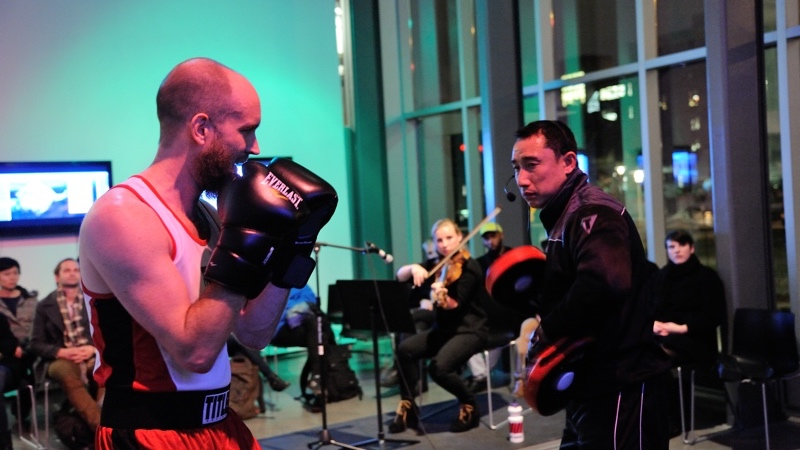
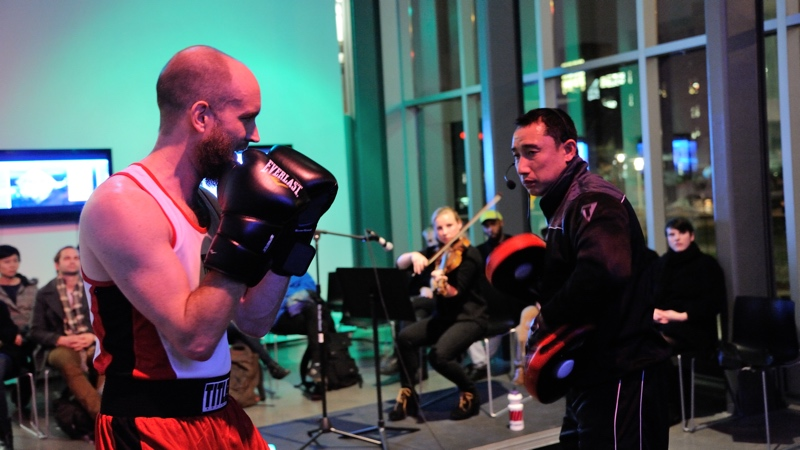
fight logic images

diff --git a/www/works/everything_that_happens_will_happen_today/index.html b/www/works/everything_that_happens_will_happen_today/index.html
@@ -7,7 +7,7 @@
     <meta name="viewport" content="width=device-width" />
     <meta name="author" content="Brian House" /> 
     <meta name="copyright" content="Brian House" /> 
-    <meta name="description" content="Over a period of one year, I continuously tracked the GPS location of ~1000 anonymous volunteers in NYC, at all times, via a custom app they installed on the..." />
+    <meta name="description" content="Over a period of one year, I tracked the GPS location of ~1000 anonymous volunteers in NYC, at all times, via a custom app they installed on their phones. I ..." />
     <meta property="og:title" content="Brian House | Everything That Happens Will Happen Today" />
     <meta property="og:type" content="website" />
     <meta property="og:image" content="https://brianhouse.net/works/everything_that_happens_will_happen_today/everything_that_happens_will_happen_today.jpg" />
@@ -15,7 +15,7 @@
     <meta name="twitter:site" content="@h0use" />
     <meta name="twitter:creator" content="@h0use" />
     <meta name="twitter:title" content="Brian House | Everything That Happens Will Happen Today" />
-    <meta name="twitter:description" content="Over a period of one year, I continuously tracked the GPS location of ~1000 anonymous volunteers in NYC, at all times, via a custom app they installed on the..." />
+    <meta name="twitter:description" content="Over a period of one year, I tracked the GPS location of ~1000 anonymous volunteers in NYC, at all times, via a custom app they installed on their phones. I ..." />
     <meta name="twitter:image" content="https://brianhouse.net/works/everything_that_happens_will_happen_today/everything_that_happens_will_happen_today.jpg" />    
     <link rel="icon" href="/favicon.png" /> 
     <link href="https://fonts.googleapis.com/css?family=Open+Sans:400,700%7CVollkorn:400,700" rel="stylesheet">
@@ -125,7 +125,7 @@ var num_media = 5;
 </div>
 
 <div id="text" class="text">
-    <p>Over a period of one year, I continuously tracked the GPS location of ~1000 anonymous volunteers in NYC, at all times, via a custom app they installed on their phones. I used these data to train an artificial intelligence algorithm similar to what is used for self-driving cars, realistic computer voices, predictive policing, and myriad other emerging applications (LSTM RNN). The algorithm was subsequently able to generate a new path around NYC that synthesized the daily behaviors of all of the volunteers. </p>
+    <p>Over a period of one year, I tracked the GPS location of ~1000 anonymous volunteers in NYC, at all times, via a custom app they installed on their phones. I used these data to train an artificial intelligence algorithm similar to what is used for self-driving cars, realistic computer voices, predictive policing, and myriad other emerging applications (LSTM RNN). The algorithm was subsequently able to generate a new path around NYC that synthesized the daily behaviors of all of the volunteers. </p>
 <p>In the spirit of Vito Acconci&rsquo;s <em>Following Piece</em> or Sophie Calle&rsquo;s <em>Suite V&eacute;nitienne</em>, I then followed the AI through the city for one week, using an app to see the path unfold in realtime on my phone. I took photographs (with my phone) of the daily life I encountered and wrote in a journal.</p>
 <p>The intelligence of AI is not spontaneous, but enculturated. It is uncanny not because it acts as if it were human, but because it is humans. They may be subsumed into the whole, but this whole is a trace of its parts. A dataset of movement around the city means that trace is literal. By following it, will I find them?</p>
 </div>

diff --git a/www/works/fight_logic/index.html b/www/works/fight_logic/index.html
@@ -8,7 +8,6 @@
     <meta name="author" content="Brian House" /> 
     <meta name="copyright" content="Brian House" /> 
     <meta name="description" content="I learn to box by attempting to execute punch combinations called out by a professional trainer. Simultaneously, a violinist listens to the same instructions..." />
-    <meta name="google-site-verification" content="A4sQWaqqAP0xPQeB5rwLlUoHnVxHP2EEOZgO_LofGm8" />  
     <meta property="og:title" content="Brian House | Fight Logic" />
     <meta property="og:type" content="website" />
     <meta property="og:image" content="https://brianhouse.net/works/fight_logic/fight_logic.jpg" />
@@ -57,11 +56,11 @@ var num_media = 6;
 
 
 <div id="header">
-    <div id="name"><a href="/">Brian House</a></div>
+    <div id="name"><a href="/" alt="Works">Brian House</a></div>
     <div id="menu">
-        <a href="/">Works</a>&nbsp;&nbsp;&nbsp;&nbsp;
-        <a href="http://blog.brianhouse.net/">News</a>&nbsp;&nbsp;&nbsp;&nbsp;
-        <a href="/about/">About</a>
+        <a href="/" alt="Works">Works</a>&nbsp;&nbsp;&nbsp;&nbsp;
+        <a href="http://blog.brianhouse.net/" alt="News">News</a>&nbsp;&nbsp;&nbsp;&nbsp;
+        <a href="/about/" alt="About">About</a>
     </div>
 </div>
 <div class="clear"></div>
@@ -79,31 +78,31 @@ var num_media = 6;
         
             
                 
-                <img id="media_1" src="fight_logic_1.jpg" alt="Brian House - Fight Logic - 1" onClick="displayMedia('2'); return false;"  />
+                <img id="media_1" src="fight_logic_1.jpg" alt="Brian House - Fight Logic - 1" onClick="displayMedia('2'); return false;" srcset="fight_logic_1.jpg 1x, fight_logic_1@2x.jpg 2x" />
                 
             
         
             
                 
-                <img id="media_2" src="fight_logic_2.jpg" alt="Brian House - Fight Logic - 2" onClick="displayMedia('3'); return false;"  />
+                <img id="media_2" src="fight_logic_2.jpg" alt="Brian House - Fight Logic - 2" onClick="displayMedia('3'); return false;" srcset="fight_logic_2.jpg 1x, fight_logic_2@2x.jpg 2x" />
                 
             
         
             
                 
-                <img id="media_3" src="fight_logic_3.jpg" alt="Brian House - Fight Logic - 3" onClick="displayMedia('4'); return false;"  />
+                <img id="media_3" src="fight_logic_3.jpg" alt="Brian House - Fight Logic - 3" onClick="displayMedia('4'); return false;" srcset="fight_logic_3.jpg 1x, fight_logic_3@2x.jpg 2x" />
                 
             
         
             
                 
-                <img id="media_4" src="fight_logic_4.jpg" alt="Brian House - Fight Logic - 4" onClick="displayMedia('5'); return false;"  />
+                <img id="media_4" src="fight_logic_4.jpg" alt="Brian House - Fight Logic - 4" onClick="displayMedia('5'); return false;" srcset="fight_logic_4.jpg 1x, fight_logic_4@2x.jpg 2x" />
                 
             
         
             
                 
-                <img id="media_5" src="fight_logic_5.jpg" alt="Brian House - Fight Logic - 5" onClick="displayMedia('0'); return false;"  />
+                <img id="media_5" src="fight_logic_5.jpg" alt="Brian House - Fight Logic - 5" onClick="displayMedia('0'); return false;" srcset="fight_logic_5.jpg 1x, fight_logic_5@2x.jpg 2x" />
                 
             
         

diff --git a/www/works/hundekopf/index.html b/www/works/hundekopf/index.html
@@ -8,7 +8,6 @@
     <meta name="author" content="Brian House" /> 
     <meta name="copyright" content="Brian House" /> 
     <meta name="description" content="Hundekopf uses Berlin&rsquo;s Ringbahn as a literary (and literal) vehicle to investigate the nature of private experience in public space. After texting a p..." />
-    <meta name="google-site-verification" content="A4sQWaqqAP0xPQeB5rwLlUoHnVxHP2EEOZgO_LofGm8" />  
     <meta property="og:title" content="Brian House | Hundekopf" />
     <meta property="og:type" content="website" />
     <meta property="og:image" content="https://brianhouse.net/works/hundekopf/hundekopf.jpg" />
@@ -57,11 +56,11 @@ var num_media = 12;
 
 
 <div id="header">
-    <div id="name"><a href="/">Brian House</a></div>
+    <div id="name"><a href="/" alt="Works">Brian House</a></div>
     <div id="menu">
-        <a href="/">Works</a>&nbsp;&nbsp;&nbsp;&nbsp;
-        <a href="http://blog.brianhouse.net/">News</a>&nbsp;&nbsp;&nbsp;&nbsp;
-        <a href="/about/">About</a>
+        <a href="/" alt="Works">Works</a>&nbsp;&nbsp;&nbsp;&nbsp;
+        <a href="http://blog.brianhouse.net/" alt="News">News</a>&nbsp;&nbsp;&nbsp;&nbsp;
+        <a href="/about/" alt="About">About</a>
     </div>
 </div>
 <div class="clear"></div>
@@ -162,8 +161,7 @@ var num_media = 12;
 </div>
 
 <div id="text" class="text">
-    <p><em>Hundekopf</em> uses Berlin&rsquo;s Ringbahn as a literary (and literal) vehicle to investigate the nature of private experience in public space.</p>
-<p>After texting a phone number printed on flyers distributed throughout the city, a participant is told to board a specific train arriving in the next few minutes. Once on the train, <em>Hundekopf</em> knows the location of the participant because it scrapes train times from the BVG alert system [Ed. note: this is before GPS in phones]. Participants receive a text-message after they pass each station on their way around the Ringbahn that is place-specific, and both the landscape outside of the train and the passengers within it are recontextualized into the narrative.</p>
+    <p><em>Hundekopf</em> uses Berlin&rsquo;s Ringbahn as a literary (and literal) vehicle to investigate the nature of private experience in public space. After texting a phone number printed on flyers distributed throughout the city, a participant is told to board a specific train arriving in the next few minutes. Once on the train, <em>Hundekopf</em> knows the location of the participant because it scrapes train times from the BVG alert system [Ed. note: this is before GPS in phones]. Participants receive a text-message after they pass each station on their way around the Ringbahn that is place-specific, and both the landscape outside of the train and the passengers within it are recontextualized into the narrative.</p>
 <p><em>Hundekopf</em> is a (possibly) fictional resistance organization, a conduit for the unseen in the everyday.</p>
 </div>
 
